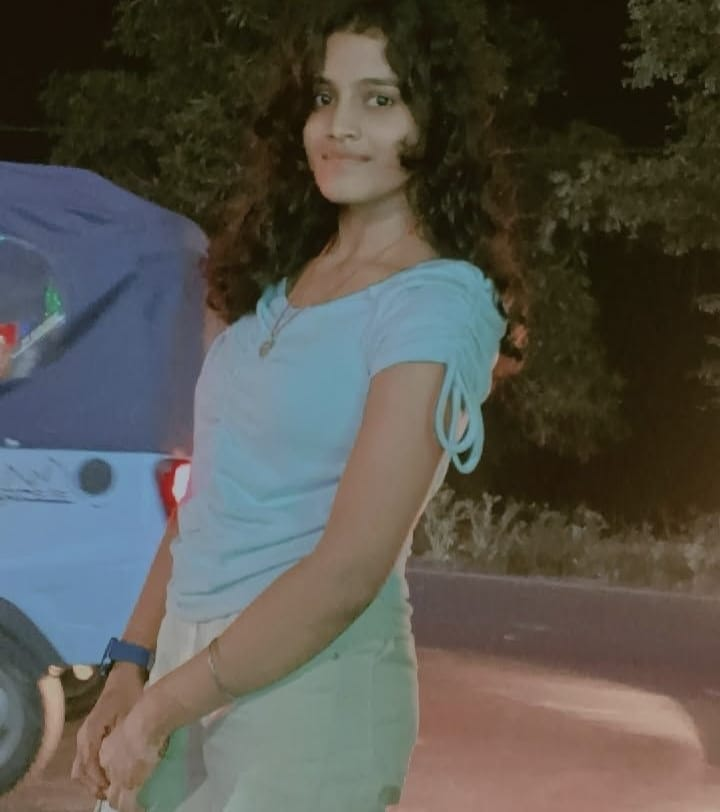
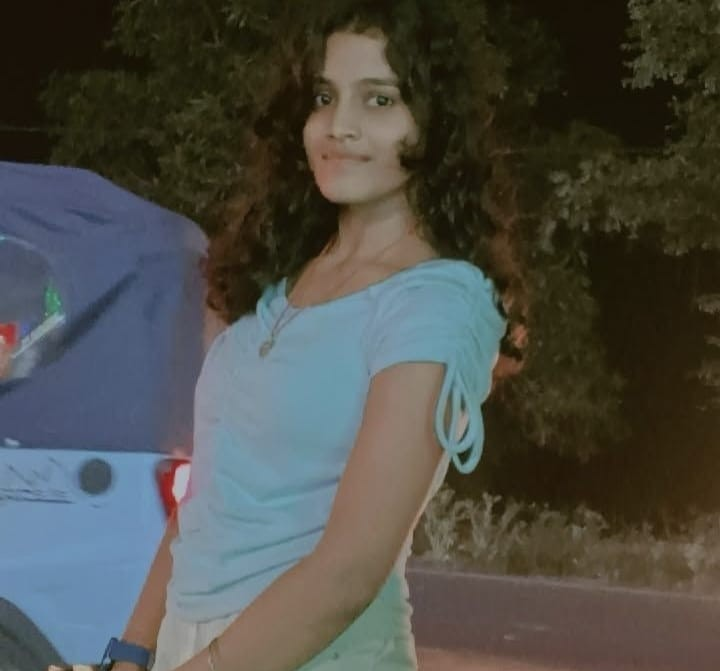
yes

diff --git a/arti2.html b/arti2.html
@@ -231,8 +231,8 @@
         <p>Enjoy in Night✨</p>
       </div>
       <div class="photo-card">
-        <img src="WhatsApp Image 2026-08-11 at 8.01.33 PM.jpeg">
-        <p>Mirror Selfie 💖</p>
+        <img src="WhatsApp Image 2026-08-11 at 7.31.59 PM(1).jpeg">
+        <p>Best click 💖</p>
       </div>
 
       <!-- Photo 2 -->
